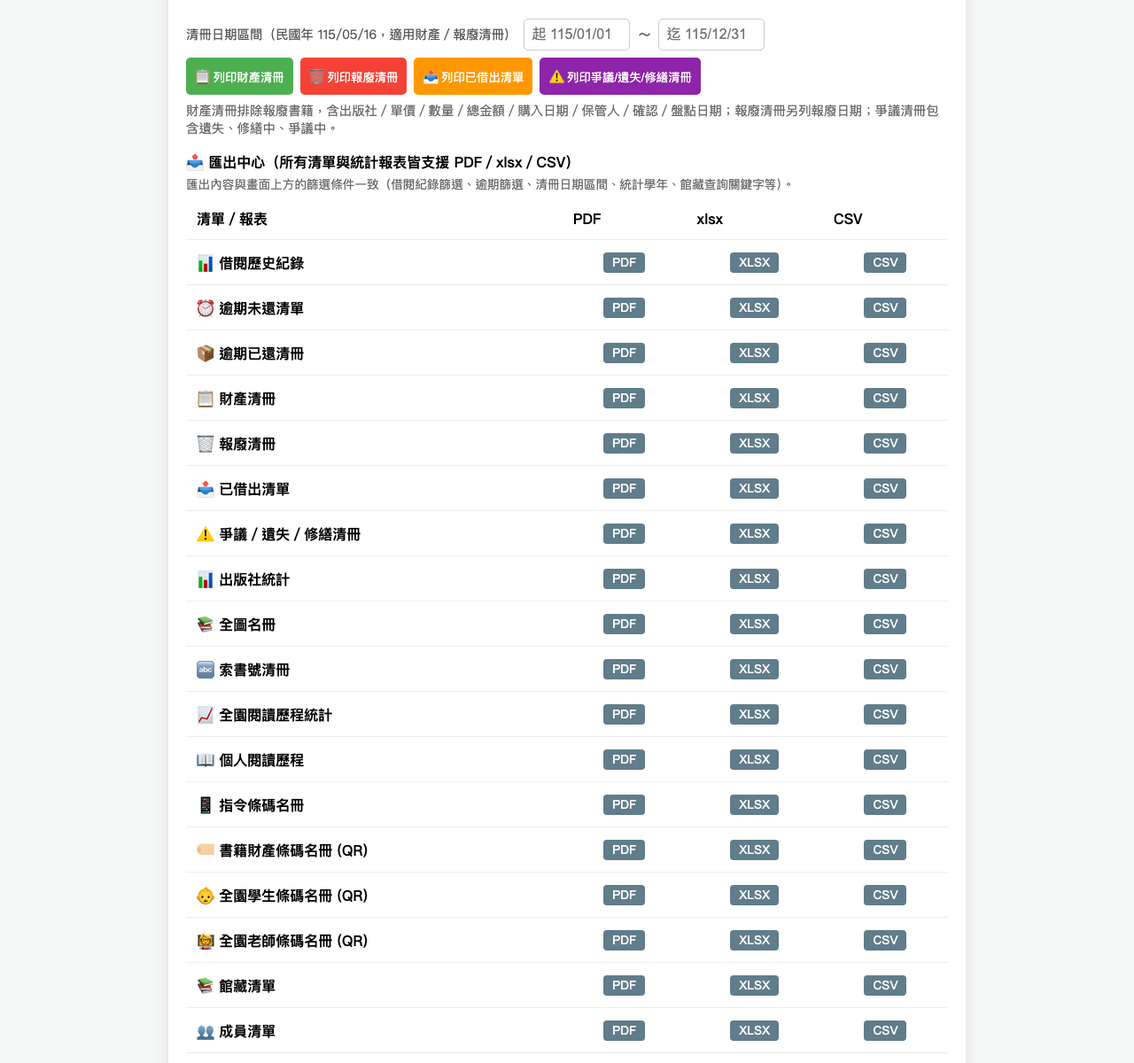
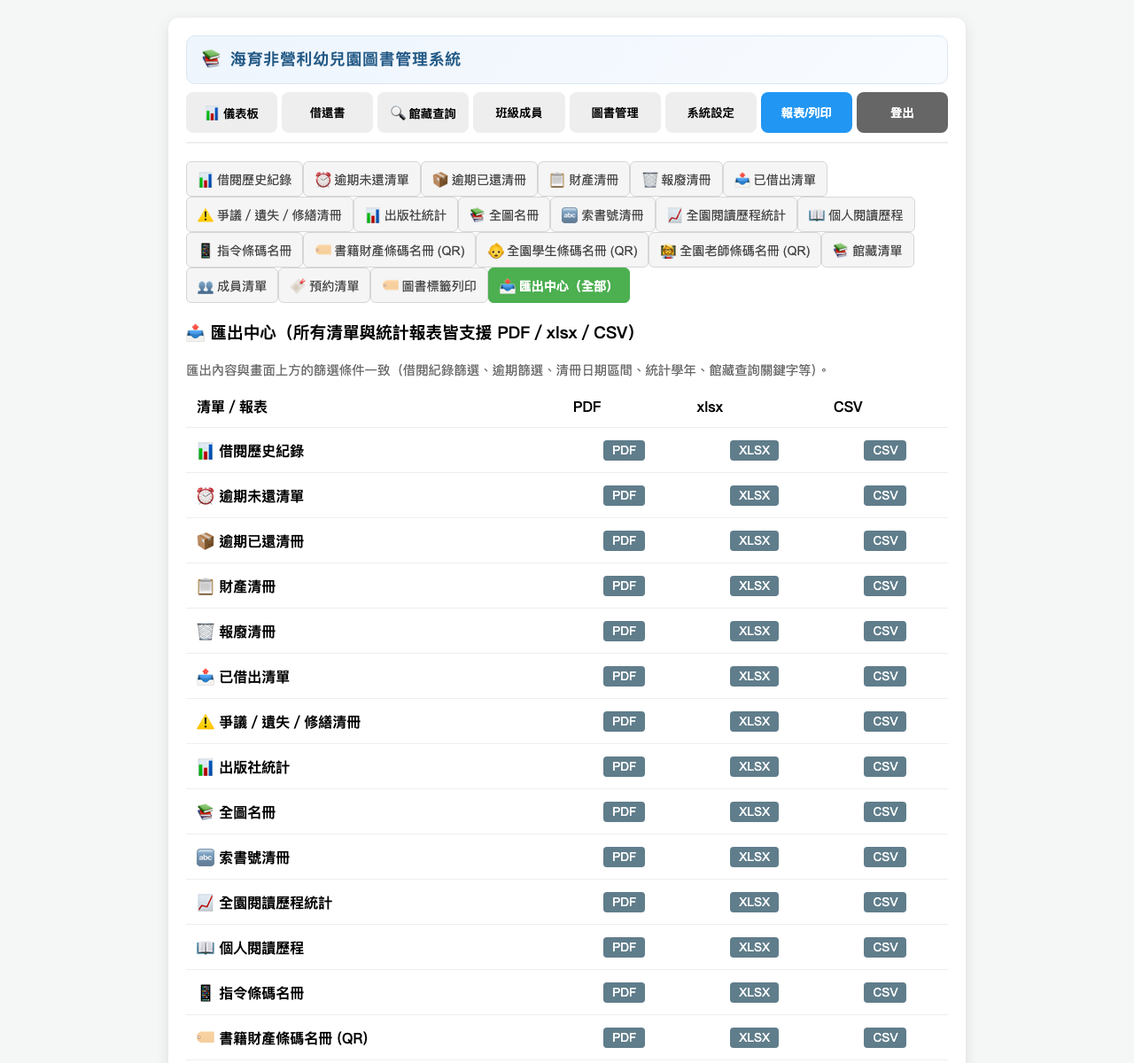
feat: 報表／列印頁改為頁籤式，依匯出中心報表名稱切換內容

Changed region(s): [[0.1562, 0.0308, 0.8438, 0.9867]]

diff --git a/index.html b/index.html
@@ -151,6 +151,12 @@
         .query-copies th, .query-copies td { border: 1px solid #e5e5e5; padding: 6px 8px; text-align: left; }
         .query-copies th { background: #f7f7f7; }
 
+        /* 報表頁籤 */
+        .report-tabs { display: flex; flex-wrap: wrap; gap: 6px; margin-bottom: 16px; padding-bottom: 10px; border-bottom: 1px solid #e2e2e2; }
+        .report-tab { padding: 7px 12px; border: 1px solid #d6d6d6; background: #f5f5f5; color: #444; border-radius: 6px; font-size: 0.88rem; cursor: pointer; }
+        .report-tab:hover { background: #ececec; }
+        .report-tab.active { background: var(--primary); border-color: var(--primary); color: #fff; font-weight: bold; }
+
         /* 清冊列印（財產清冊／報廢清冊） */
         .print-sheet-title { font-size: 18px; font-weight: bold; text-align: center; margin-bottom: 6px; }
         .print-sheet-meta { display: flex; justify-content: space-between; font-size: 11px; margin-bottom: 8px; }
@@ -650,6 +656,8 @@
 
     <div id="reportPage" class="page">
 
+        <div id="reportTabs" class="no-print"></div>
+
         <div id="logReportSection">
             <h3>📊 借閱歷史紀錄</h3>
             <div id="logFilterRow" style="display:flex; gap:8px; flex-wrap:wrap; align-items:center; margin-bottom:10px;">
@@ -711,8 +719,8 @@
             </table>
         </div>
         <div id="overdueReportSection" style="margin-top:20px;">
-            <h3>⏰ 逾期未還清單</h3>
-            <div style="display:flex; gap:8px; flex-wrap:wrap; align-items:center; margin-bottom:8px;">
+            <h3 id="overdueSectionTitle">⏰ 逾期未還清單</h3>
+            <div id="overdueFilterRow" style="display:flex; gap:8px; flex-wrap:wrap; align-items:center; margin-bottom:8px;">
                 <select id="overdueClassFilter" style="padding:8px; border-radius:5px; border:1px solid #ccc; min-width:130px;"></select>
                 <select id="overdueTypeFilter" style="padding:8px; border-radius:5px; border:1px solid #ccc; min-width:120px;">
                     <option value="">全部（師生）</option>
@@ -722,36 +730,35 @@
             </div>
             <div style="color:#666; font-size:0.9rem; margin-bottom:6px;">「逾期已還清冊」列出設定期間內曾逾期才歸還的紀錄，可搭配班級／師生篩選與下方日期區間。</div>
             <div style="display:flex; gap:8px; flex-wrap:wrap; align-items:center; margin-bottom:8px;">
-                <span style="color:#555; font-size:0.9rem;">已還清冊期間</span>
-                <input type="date" id="overdueReturnedFrom" aria-label="起始日期" style="width:160px; padding:8px; border-radius:5px; border:1px solid #ccc;">
-                <span style="color:#555;">～</span>
-                <input type="date" id="overdueReturnedTo" aria-label="結束日期" style="width:160px; padding:8px; border-radius:5px; border:1px solid #ccc;">
-                <button onclick="loadOverdueReport()" style="padding:10px; background:#f0ad4e; color:white; border:none; border-radius:5px;">🔍 查詢逾期清單</button>
+                <span id="overdueDateFields" style="display:inline-flex; align-items:center; gap:6px;">
+                    <span style="color:#555; font-size:0.9rem;">已還清冊期間</span>
+                    <input type="date" id="overdueReturnedFrom" aria-label="起始日期" style="width:160px; padding:8px; border-radius:5px; border:1px solid #ccc;">
+                    <span style="color:#555;">～</span>
+                    <input type="date" id="overdueReturnedTo" aria-label="結束日期" style="width:160px; padding:8px; border-radius:5px; border:1px solid #ccc;">
+                </span>
+                <button id="overdueQueryBtn" onclick="loadOverdueReport()" style="padding:10px; background:#f0ad4e; color:white; border:none; border-radius:5px;">🔍 查詢逾期清單</button>
             </div>
-            <table>
+            <table id="overdueTable">
                 <thead><tr><th>書名</th><th>借閱人</th><th>應還日期</th><th>逾期天數</th></tr></thead>
                 <tbody id="overdueTableBody"></tbody>
             </table>
         </div>
 
         <div id="inventoryReportSection" style="margin-top:20px;">
-            <h3>📋 清冊列印</h3>
-            <div style="display:flex; gap:8px; flex-wrap:wrap; align-items:center; margin-bottom:8px;">
+            <h3 id="inventorySectionTitle">📋 清冊列印</h3>
+            <div id="invDateRow" style="display:flex; gap:8px; flex-wrap:wrap; align-items:center; margin-bottom:8px;">
                 <span style="color:#555; font-size:0.9rem;">清冊日期區間（民國年 115/05/16，適用財產／報廢清冊）</span>
                 <input type="text" id="invDateFrom" placeholder="起 115/01/01" style="padding:8px; border-radius:5px; border:1px solid #ccc; width:120px;">
                 <span style="color:#555;">～</span>
                 <input type="text" id="invDateTo" placeholder="迄 115/12/31" style="padding:8px; border-radius:5px; border:1px solid #ccc; width:120px;">
             </div>
             <div style="display:flex; gap:8px; flex-wrap:wrap; margin-bottom:8px;">
-                <button onclick="printInventoryReport('all')" style="padding:10px; background:var(--primary); color:white; border:none; border-radius:5px;">📋 列印財產清冊</button>
-                <button onclick="printInventoryReport('scrap')" style="padding:10px; background:var(--danger); color:white; border:none; border-radius:5px;">🗑 列印報廢清冊</button>
-                <button onclick="printInventoryReport('checkedout')" style="padding:10px; background:var(--warning); color:white; border:none; border-radius:5px;">📤 列印已借出清單</button>
-                <button onclick="printInventoryReport('issues')" style="padding:10px; background:#8e24aa; color:white; border:none; border-radius:5px;">⚠ 列印爭議/遺失/修繕清冊</button>
+                <button id="btnInvAll" onclick="printInventoryReport('all')" style="padding:10px; background:var(--primary); color:white; border:none; border-radius:5px;">📋 列印財產清冊</button>
+                <button id="btnInvScrap" onclick="printInventoryReport('scrap')" style="padding:10px; background:var(--danger); color:white; border:none; border-radius:5px;">🗑 列印報廢清冊</button>
+                <button id="btnInvCheckedOut" onclick="printInventoryReport('checkedout')" style="padding:10px; background:var(--warning); color:white; border:none; border-radius:5px;">📤 列印已借出清單</button>
+                <button id="btnInvIssues" onclick="printInventoryReport('issues')" style="padding:10px; background:#8e24aa; color:white; border:none; border-radius:5px;">⚠ 列印爭議/遺失/修繕清冊</button>
             </div>
             <div style="color:#666; font-size:0.9rem; margin-bottom:6px;">財產清冊排除報廢書籍，含出版社／單價／數量／總金額／購入日期／保管人／確認／盤點日期；報廢清冊另列報廢日期；爭議清冊包含遺失、修繕中、爭議中。</div>
-            <h4 style="margin:14px 0 4px;">📤 匯出中心（所有清單與統計報表皆支援 PDF／xlsx／CSV）</h4>
-            <div style="color:#666; font-size:0.85rem; margin-bottom:6px;">匯出內容與畫面上方的篩選條件一致（借閱紀錄篩選、逾期篩選、清冊日期區間、統計學年、館藏查詢關鍵字等）。</div>
-            <div id="exportCenterTable"></div>
         </div>
 
 
@@ -776,6 +783,21 @@
             </div>
             <div id="labelPrintSummary" class="no-print" style="color:#666; margin-bottom:8px;"></div>
             <div class="qr-label-grid" id="qrLabelContainer"></div>
+        </div>
+
+        <div id="exportCenterSection" style="display:none;">
+            <h3>📤 匯出中心（所有清單與統計報表皆支援 PDF／xlsx／CSV）</h3>
+            <div style="color:#666; font-size:0.9rem; margin-bottom:8px;">匯出內容與畫面上方的篩選條件一致（借閱紀錄篩選、逾期篩選、清冊日期區間、統計學年、館藏查詢關鍵字等）。</div>
+            <div id="exportCenterTable"></div>
+        </div>
+
+        <div id="reportGenericPanel" style="display:none;">
+            <h3 id="reportGenericTitle"></h3>
+            <div id="reportGenericDesc" style="color:#666; margin-bottom:12px;"></div>
+            <div style="display:flex; gap:8px; flex-wrap:wrap; align-items:center;">
+                <span id="reportGenericLead" style="color:#555; font-size:0.9rem;"></span>
+                <div id="reportGenericButtons" style="display:flex; gap:8px; flex-wrap:wrap;"></div>
+            </div>
         </div>
     </div>
 
@@ -1289,31 +1311,11 @@
 
     // --- 報表與標籤模式切換 ---
     function togglePrintMode() {
-        // 若不在報表頁，先切換過去，讓標籤列印區塊可見
+        // 若不在報表頁，先切換過去，讓標籤列印頁籤可見
         if (!document.getElementById('reportPage').classList.contains('active')) {
             changeTab('reportPage');
         }
-        isLabelMode = !isLabelMode;
-        const tagSection = document.getElementById('tagReportSection');
-        const logModeSections = ['logReportSection', 'overdueReportSection', 'inventoryReportSection', 'memberHistorySection', 'yearStatsSection'];
-
-        if (isLabelMode) {
-            logModeSections.forEach(id => {
-                const el = document.getElementById(id);
-                if (el) el.style.display = 'none';
-            });
-            if (tagSection) tagSection.style.display = 'block';
-            document.querySelectorAll('.print-mode-btn').forEach(btn => { btn.innerText = "切換至：紀錄模式"; });
-            renderQRLabels();
-        } else {
-            logModeSections.forEach(id => {
-                const el = document.getElementById(id);
-                if (el) el.style.display = 'block';
-            });
-            if (tagSection) tagSection.style.display = 'none';
-            document.querySelectorAll('.print-mode-btn').forEach(btn => { btn.innerText = "切換至：標籤模式"; });
-            renderReportTable();
-        }
+        setReportTab(activeReportTab === 'labels' ? 'log' : 'labels');
     }
 
     // --- 索書號條碼（Code 128B，不需外部函式庫） ---
@@ -1867,6 +1869,140 @@
         { label: '👥 成員清單', url: () => '/api/export/members' },
         { label: '🔖 預約清單', url: () => '/api/export/reservations' },
     ];
+
+    // 報表／列印頁籤：對應匯出中心的清單／報表名稱
+    const REPORT_TAB_DEFS = [
+        { key: 'log', label: '📊 借閱歷史紀錄', section: 'logReportSection' },
+        { key: 'overdue', label: '⏰ 逾期未還清單', section: 'overdueReportSection', exportLabel: '⏰ 逾期未還清單' },
+        { key: 'overdueReturned', label: '📦 逾期已還清冊', section: 'overdueReportSection', exportLabel: '📦 逾期已還清冊' },
+        { key: 'inventoryAll', label: '📋 財產清冊', section: 'inventoryReportSection', exportLabel: '📋 財產清冊' },
+        { key: 'inventoryScrap', label: '🗑 報廢清冊', section: 'inventoryReportSection', exportLabel: '🗑 報廢清冊' },
+        { key: 'checkedOut', label: '📤 已借出清單', section: 'inventoryReportSection', exportLabel: '📤 已借出清單' },
+        { key: 'issues', label: '⚠ 爭議／遺失／修繕清冊', section: 'inventoryReportSection', exportLabel: '⚠ 爭議／遺失／修繕清冊' },
+        { key: 'publisher', label: '📊 出版社統計', exportLabel: '📊 出版社統計' },
+        { key: 'fullCatalog', label: '📚 全圖名冊', exportLabel: '📚 全圖名冊' },
+        { key: 'callno', label: '🔤 索書號清冊', exportLabel: '🔤 索書號清冊' },
+        { key: 'yearStats', label: '📈 全園閱讀歷程統計', section: 'yearStatsSection', exportLabel: '📈 全園閱讀歷程統計' },
+        { key: 'memberHistory', label: '📖 個人閱讀歷程', section: 'memberHistorySection', exportLabel: '📖 個人閱讀歷程' },
+        { key: 'commands', label: '📱 指令條碼名冊', exportLabel: '📱 指令條碼名冊' },
+        { key: 'inventoryQr', label: '🏷 書籍財產條碼名冊 (QR)', exportLabel: '🏷 書籍財產條碼名冊 (QR)' },
+        { key: 'membersQr', label: '👶 全園學生條碼名冊 (QR)', exportLabel: '👶 全園學生條碼名冊 (QR)' },
+        { key: 'teachersQr', label: '👩🏫 全園老師條碼名冊 (QR)', exportLabel: '👩🏫 全園老師條碼名冊 (QR)' },
+        { key: 'booksExport', label: '📚 館藏清單', exportLabel: '📚 館藏清單' },
+        { key: 'membersExport', label: '👥 成員清單', exportLabel: '👥 成員清單' },
+        { key: 'reservations', label: '🔖 預約清單', exportLabel: '🔖 預約清單' },
+        { key: 'labels', label: '🏷 圖書標籤列印', section: 'tagReportSection' },
+        { key: 'exportCenter', label: '📤 匯出中心（全部）', section: 'exportCenterSection' },
+    ];
+
+    const REPORT_TAB_DESCRIPTIONS = {
+        '📊 出版社統計': '依出版社統計館藏數量，支援 PDF／xlsx／CSV 匯出。',
+        '📚 全圖名冊': '全館圖書完整名冊，PDF 依來源分段列印。',
+        '🔤 索書號清冊': '依索書號排序的館藏清冊。',
+        '📱 指令條碼名冊': '借書、還書、清除重來等系統指令條碼名冊。',
+        '🏷 書籍財產條碼名冊 (QR)': '每本書的財產編號 QR 條碼名冊。',
+        '👶 全園學生條碼名冊 (QR)': '全園學生帳號 QR 條碼名冊。',
+        '👩🏫 全園老師條碼名冊 (QR)': '全園老師帳號 QR 條碼名冊。',
+        '📚 館藏清單': '依「館藏查詢」目前篩選條件匯出館藏清單。',
+        '👥 成員清單': '全園成員清單（含帳號、班級與角色）。',
+        '🔖 預約清單': '目前預約狀態清單。',
+    };
+
+    let activeReportTab = 'log';
+
+    function reportTabDef(key) {
+        return REPORT_TAB_DEFS.find(t => t.key === key) || REPORT_TAB_DEFS[0];
+    }
+
+    function renderReportTabs() {
+        const el = document.getElementById('reportTabs');
+        if (!el) return;
+        el.innerHTML = REPORT_TAB_DEFS.map(t => {
+            const active = t.key === activeReportTab ? ' active' : '';
+            return `<button type="button" class="report-tab${active}" onclick="setReportTab('${t.key}')">${escapeHtml(t.label)}</button>`;
+        }).join('');
+    }
+
+    function showReportEl(id, show, display) {
+        const el = document.getElementById(id);
+        if (el) el.style.display = show ? (display || '') : 'none';
+    }
+
+    function renderReportGenericExport(label, detailed) {
+        const index = EXPORT_REPORTS.findIndex(r => r.label === label);
+        if (index < 0) return;
+        const panel = document.getElementById('reportGenericPanel');
+        if (!panel) return;
+        const title = document.getElementById('reportGenericTitle');
+        const desc = document.getElementById('reportGenericDesc');
+        const lead = document.getElementById('reportGenericLead');
+        const buttons = document.getElementById('reportGenericButtons');
+        if (detailed) {
+            title.style.display = 'none';
+            desc.style.display = 'none';
+            lead.textContent = '匯出此報表：';
+        } else {
+            title.style.display = '';
+            desc.style.display = '';
+            title.textContent = label;
+            desc.textContent = REPORT_TAB_DESCRIPTIONS[label] || '此報表提供 PDF／xlsx／CSV 匯出。';
+            lead.textContent = '';
+        }
+        buttons.innerHTML = ['pdf', 'xlsx', 'csv'].map(f =>
+            `<button onclick="exportCenterClick(${index}, '${f}')" style="padding:6px 16px; background:#607d8b; color:white; border:none; border-radius:4px;">${f.toUpperCase()}</button>`
+        ).join('');
+        panel.style.display = 'block';
+    }
+
+    function applyReportTabVariant(tab) {
+        const key = tab.key;
+        if (key === 'overdue' || key === 'overdueReturned') {
+            const returned = key === 'overdueReturned';
+            const title = document.getElementById('overdueSectionTitle');
+            if (title) title.textContent = returned ? '📦 逾期已還清冊' : '⏰ 逾期未還清單';
+            showReportEl('overdueFilterRow', true, 'flex');
+            showReportEl('overdueDateFields', returned, 'inline-flex');
+            showReportEl('overdueQueryBtn', !returned, 'inline-block');
+            showReportEl('overdueTable', !returned);
+        }
+        if (['inventoryAll', 'inventoryScrap', 'checkedOut', 'issues'].includes(key)) {
+            const dated = key === 'inventoryAll' || key === 'inventoryScrap';
+            const titles = {
+                inventoryAll: '📋 財產清冊',
+                inventoryScrap: '🗑 報廢清冊',
+                checkedOut: '📤 已借出清單',
+                issues: '⚠ 爭議／遺失／修繕清冊',
+            };
+            const title = document.getElementById('inventorySectionTitle');
+            if (title) title.textContent = titles[key] || '📋 清冊列印';
+            showReportEl('invDateRow', dated, 'flex');
+            showReportEl('btnInvAll', key === 'inventoryAll', 'inline-block');
+            showReportEl('btnInvScrap', key === 'inventoryScrap', 'inline-block');
+            showReportEl('btnInvCheckedOut', key === 'checkedOut', 'inline-block');
+            showReportEl('btnInvIssues', key === 'issues', 'inline-block');
+        }
+    }
+
+    function setReportTab(key) {
+        const tab = reportTabDef(key);
+        activeReportTab = tab.key;
+        ['logReportSection', 'yearStatsSection', 'memberHistorySection', 'overdueReportSection',
+         'inventoryReportSection', 'tagReportSection', 'exportCenterSection'].forEach(id => showReportEl(id, false));
+        showReportEl('reportGenericPanel', false);
+        if (tab.section) showReportEl(tab.section, true, 'block');
+        isLabelMode = tab.key === 'labels';
+        applyReportTabVariant(tab);
+        if (tab.exportLabel && tab.key !== 'log') {
+            renderReportGenericExport(tab.exportLabel, !!tab.section);
+        }
+        if (tab.key === 'labels') renderQRLabels();
+        if (tab.key === 'log') renderReportTable();
+        if (tab.key === 'exportCenter') renderExportCenter();
+        document.querySelectorAll('.print-mode-btn').forEach(btn => {
+            btn.innerText = isLabelMode ? '切換至：紀錄模式' : '切換至：標籤模式';
+        });
+        renderReportTabs();
+    }
 
     function exportCenterClick(i, fmt) {
         // 統一接住條件檢查錯誤（如「個人閱讀歷程」未選姓名），避免按鍵靜默失敗
@@ -2504,9 +2640,8 @@
         if(pageId === 'loanPage') focusGunInput();
         if(pageId === 'configPage') { loadRecoverySettings(); renderAuditTable(); loadBackupSettings(); loadCategories(); loadSecurityQuestion(); }
         if(pageId === 'reportPage') {
-            showLogReportMode();
             reportPage = 1;
-            renderReportTable();
+            showLogReportMode();
             renderExportCenter();
         }
     }
@@ -2526,19 +2661,10 @@
 
     // 回到報表的「紀錄模式」，並清掉可能殘留的標籤列印狀態。
     function showLogReportMode() {
-        isLabelMode = false;
-        ['logReportSection', 'overdueReportSection', 'inventoryReportSection',
-         'memberHistorySection', 'yearStatsSection'].forEach(id => {
-            const el = document.getElementById(id);
-            if (el) el.style.display = 'block';
-        });
-        const tag = document.getElementById('tagReportSection');
-        if (tag) tag.style.display = 'none';
-        const btn = document.getElementById('printModeBtn');
-        if (btn) btn.innerText = "切換至：標籤模式";
         document.body.classList.remove('printing-label');
         const area = document.getElementById('singleLabelArea');
         if (area) area.innerHTML = '';
+        setReportTab(activeReportTab || 'log');
     }
 
     // 列印目前報表模式：先清掉單張標籤列印殘留的狀態，避免印出空白。

diff --git a/docs/操作手冊.md b/docs/操作手冊.md
@@ -344,13 +344,19 @@ admin／root 角色與共用管理員不受勾選影響，一律全權限。
 
 ## 報表／列印功能 (7)
 
-「報表／列印」頁由上而下依序為：**📊 借閱歷史紀錄**、📈 全園閱讀歷程統計（依學年）、📖 個人閱讀歷程統計、⏰ 逾期未還清單，以及下方其他清冊與「📤 匯出中心」。查詢借閱紀錄時，最常用的歷史紀錄區塊位於頁面最上方。
+「報表／列印」頁最上方為**報表頁籤**，頁籤名稱與匯出中心的清單／報表名稱一致。點選頁籤時只會顯示該報表的內容，不再同時堆疊所有區塊。
 
-各區塊操作方式：
-- 借閱歷史紀錄：設定老師／年度／學年／日期後按「🔍 查詢」；查詢結果表格下方另有 **PDF／xlsx／CSV** 三個按鍵，可直接匯出目前篩選條件的紀錄。
-- 全園閱讀歷程統計：輸入學年後按「📊 查詢」載入統計。
-- 個人閱讀歷程統計：選擇班級、姓名、學年與日期區間後，先按「🔍 查詢」在畫面預覽，再按「📖 列印個人歷程」列印。
-- 逾期未還清單：選擇班級／師生與「已還清冊期間」日期後，按日期欄位後方的「🔍 查詢逾期清單」載入。
+各頁籤操作方式：
+- 📊 借閱歷史紀錄：設定老師／年度／學年／日期後按「🔍 查詢」；查詢結果表格下方另有 **PDF／xlsx／CSV** 三個按鍵，可直接匯出目前篩選條件的紀錄。
+- ⏰ 逾期未還清單：選擇班級／師生後按「🔍 查詢逾期清單」載入，頁面下方提供 PDF／xlsx／CSV 匯出。
+- 📦 逾期已還清冊：選擇班級／師生與「已還清冊期間」起迄日期後，按下方 PDF／xlsx／CSV 匯出。
+- 📋 財產清冊／🗑 報廢清冊：設定清冊日期區間後列印或匯出。
+- 📤 已借出清單／⚠ 爭議／遺失／修繕清冊：直接列印或匯出。
+- 📈 全園閱讀歷程統計：輸入學年後按「📊 查詢」載入統計。
+- 📖 個人閱讀歷程：選擇班級、姓名、學年與日期區間後，先按「🔍 查詢」在畫面預覽，再按「📖 列印個人歷程」列印。
+- 📊 出版社統計、📚 全圖名冊、🔤 索書號清冊、📱 指令條碼名冊、🏷 各式條碼名冊、📚 館藏清單、👥 成員清單、🔖 預約清單：頁籤內直接提供 PDF／xlsx／CSV 下載。
+- 🏷 圖書標籤列印：選擇標籤內容與貼紙格式後列印。
+- 📤 匯出中心（全部）：以表格一次列出所有清單／報表的下載按鍵。
 
 系統所有清單與統計報表，除了畫面預覽外，皆須支援下列匯出格式：PDF、xlsx、csv。匯出之中文編碼必須確保於 Microsoft Excel 開啟時不會產生亂碼（採用 UTF-8 with BOM 編碼）。
 
@@ -359,13 +365,13 @@ admin／root 角色與共用管理員不受勾選影響，一律全權限。
 條碼名冊：PDF（因為是條碼名冊，用 PDF 固定列印位置）。  
 清冊：xlsx 或 csv（匯出原生 Excel 工作表格式，以利後續人工加值運算與建檔）。
 
-「報表／列印」頁提供「📤 匯出中心」，以表格列出全部清單／報表，每項皆有 **PDF／xlsx／CSV** 三個按鍵；匯出內容與畫面上的篩選條件一致（借閱紀錄篩選、逾期篩選、清冊日期區間、統計學年、館藏查詢關鍵字等）。此外：
+「報表／列印」頁的每個報表頁籤皆提供 **PDF／xlsx／CSV** 匯出；「📤 匯出中心（全部）」頁籤則以表格一次列出全部清單／報表的下載按鍵。匯出內容與畫面上的篩選條件一致（借閱紀錄篩選、逾期篩選、清冊日期區間、統計學年、館藏查詢關鍵字等）。此外：
 - 「館藏查詢」頁可匯出目前查詢結果（PDF／xlsx／CSV）。
 - 「館藏查詢 → 借還紀錄明細」可匯出個人借還明細（PDF／xlsx／CSV）。
 - 「系統設定 → 稽核紀錄」可匯出稽核紀錄（PDF／xlsx／CSV）。
 - 匯出中心另含「館藏清單」「成員清單」「預約清單」三筆全系統資料匯出。
 
-條件設定說明：匯出中心不另設條件欄位，而是**沿用畫面上該報表所屬區塊目前填寫的篩選值**——
+條件設定說明：各報表頁籤不另設條件欄位，而是**沿用該頁籤畫面上目前填寫的篩選值**——
 - 需先設條件者：借閱歷史紀錄（教師／學年／日期）、逾期未還與逾期已還（班級／身分／日期）、財產清冊與報廢清冊（日期區間）、全園閱讀歷程統計（學年）、**個人閱讀歷程（須先在「個人閱讀歷程統計」區選擇班級與姓名，未選時會提示）**。
 - 直接匯出全部者：全圖名冊、索書號清冊、出版社統計、已借出清單、爭議／遺失／修繕清冊、書籍財產／學生／老師條碼名冊、指令條碼名冊、成員清單、預約清單（本來就是全園整批報表，無篩選欄位）。
 

diff --git a/docs/修訂紀錄.md b/docs/修訂紀錄.md
@@ -510,3 +510,10 @@
 
 ### 借閱歷史紀錄查詢結果下方新增匯出按鍵（2026/11/16）
 - 「📊 借閱歷史紀錄」查詢結果與分頁下方新增 PDF／xlsx／CSV 三個按鍵，直接匯出目前篩選條件（老師／年度／學年／日期）的紀錄，免到匯出中心。
+
+### 報表／列印頁改為頁籤式（2026/11/16）
+- 「報表／列印」頁最上方新增報表頁籤，名稱與匯出中心的清單／報表名稱一致（借閱歷史紀錄、逾期未還清單、逾期已還清冊、財產清冊、報廢清冊、已借出清單、爭議清冊、出版社統計、全圖名冊、索書號清冊、全園閱讀歷程統計、個人閱讀歷程、指令條碼名冊、各式 QR 條碼名冊、館藏清單、成員清單、預約清單）。
+- 點選頁籤只顯示該報表內容，不再同時顯示所有區塊；每個頁籤下方提供 PDF／xlsx／CSV 匯出。
+- 新增「🏷 圖書標籤列印」與「📤 匯出中心（全部）」頁籤；原本的匯出中心表格移至後者。
+- 「逾期未還清單」與「逾期已還清冊」分開呈現：前者顯示篩選與查詢結果，後者顯示日期區間與匯出按鍵。
+- 清冊頁籤（財產／報廢／已借出／爭議）只顯示對應的列印按鍵，標題隨頁籤切換。
